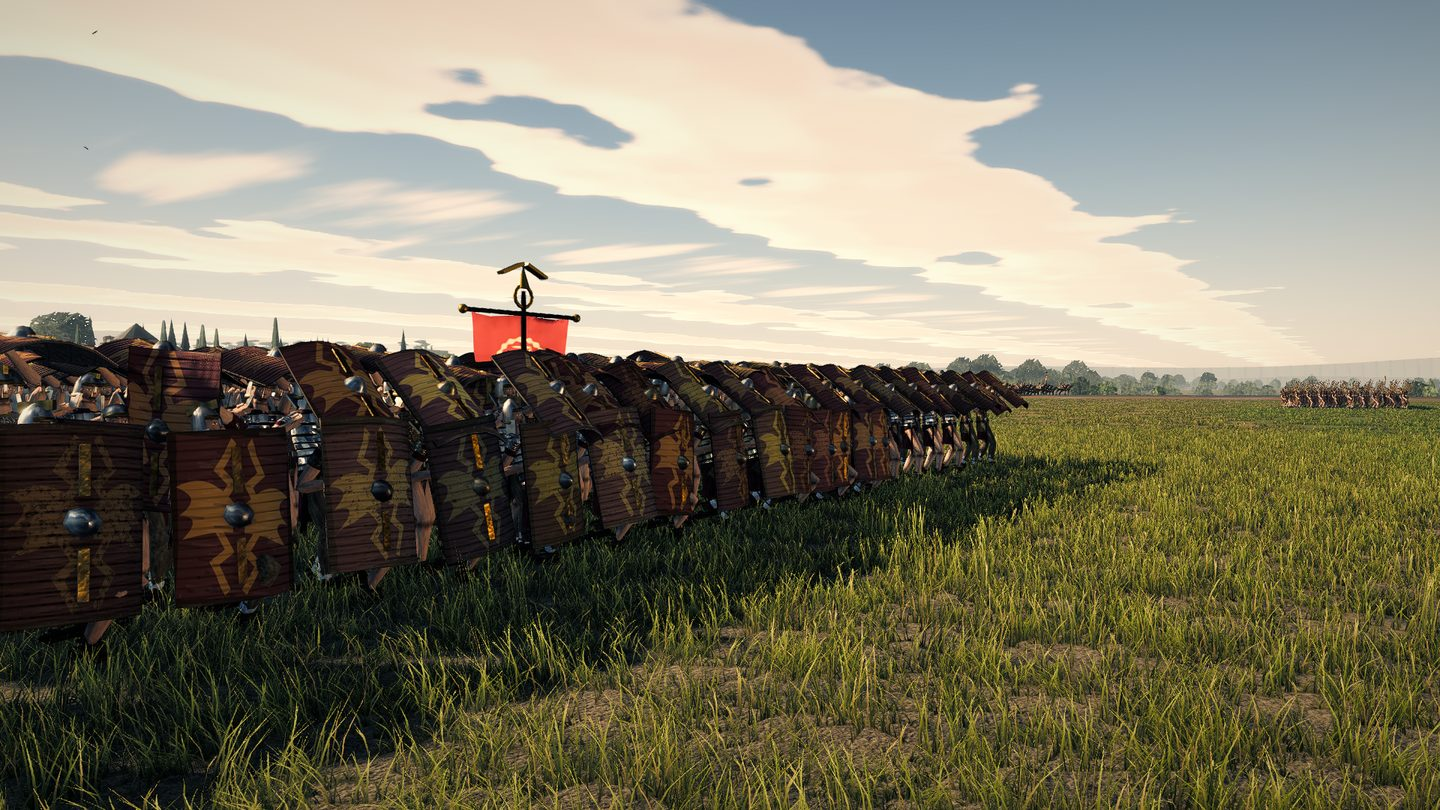
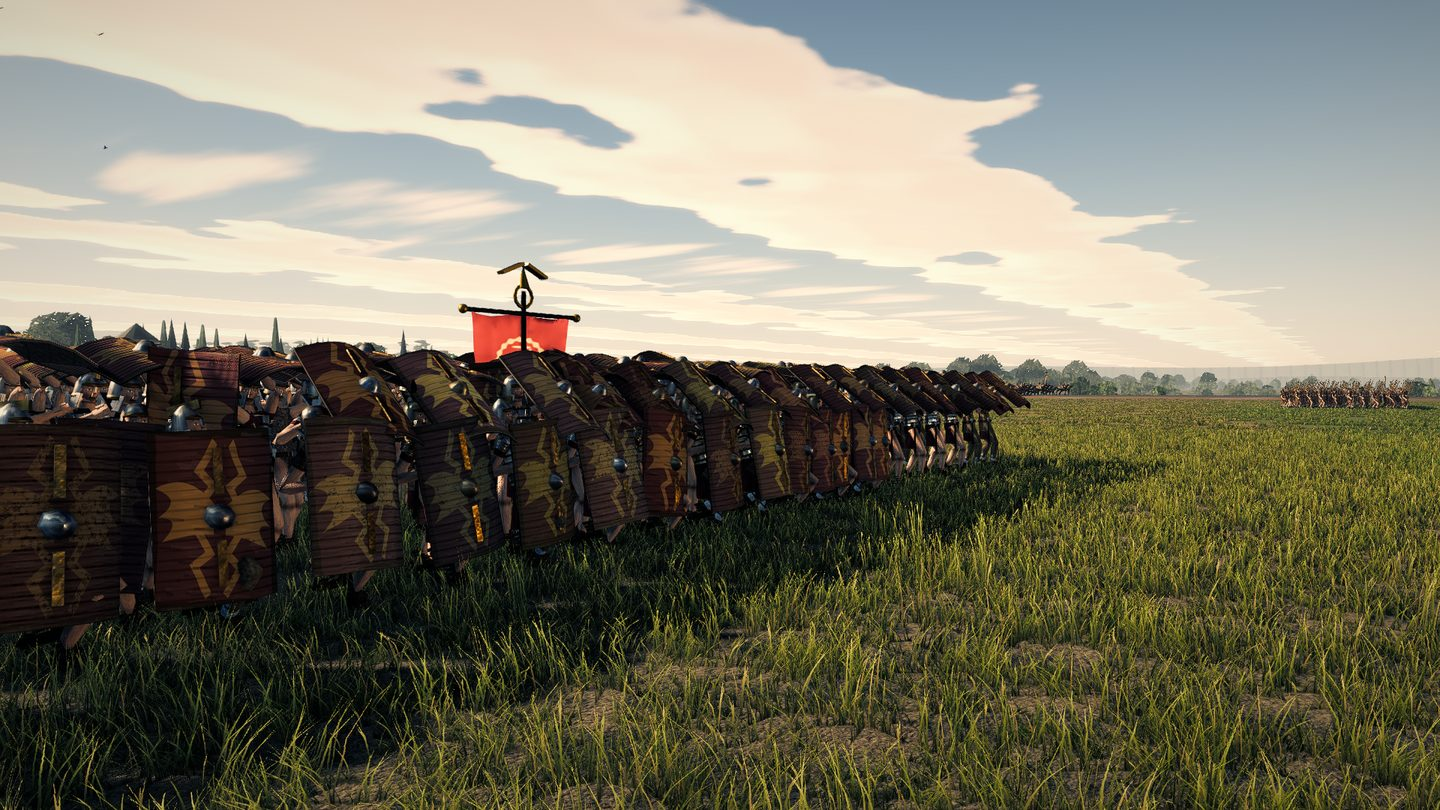
fix(render): the occlusion response was linear, and linear threw most of it away
A blind grader was handed the before and after plates and reported it could not tell them
apart. It was right about the frames and wrong about the buffer, and the fault was one line.

`max( occ, 0.34 )` — the response this pass replaced — is the *identity* for every occlusion
above 0.34: the frame darkened exactly as much as the occlusion buffer said. Its replacement,
`fill + ( 1 - fill ) * occ`, keeps both endpoints and lifts the entire middle: 0.79 against
0.70 at occ 0.7, 0.685 against 0.55 at occ 0.55. So a pass that took the buffer's 5th
percentile from 0.698 to 0.439 moved the finished frame's mean luminance by 1.3 % and the
share of pixels under 15 % luminance by 0.8 of a point.

`AO_FILL_GAMMA = 1.9` puts the curve back on top of the clamp — 0.814 against 0.850 at occ
0.85, 0.655 against 0.700 at 0.70, 0.447 against 0.440 at 0.44, 0.371 against the floor at
0.30 — while keeping everything the clamp could not do: continuous, never crushing below
`AO_FILL`, and what survives is the colour of the sky bounce rather than a neutral fraction.

Re-measured against the same nine before frames, whole-frame mean luminance: −2.7 % to
−10.8 %, against −0.1 % to −3.7 % for the linear form. Share of pixels under 15 % luminance
up by 1.5 to 3.0 points on every camera against under one point. Plates re-shot, including
the Rome street pair, where the band along the base of every frontage is now unmissable.
[…]

Changed region(s): [[0.0, 0.3704, 1.0, 1.0], [0.9062, 0.463, 0.9375, 0.4938]]

diff --git a/src/render/PostFX.ts b/src/render/PostFX.ts
@@ -98,6 +98,27 @@ const AO_CONTACT_STRENGTH = 5.0;
  * the rig's own.
  */
 const AO_FILL = 0.30;
+/**
+ * The exponent on the occlusion before the fill lifts it, and it is not a look decision — it
+ * is what makes the new curve agree with the one it replaces everywhere except at the bottom.
+ *
+ * **The linear form was shipped first and it silently threw most of the effect away.** The
+ * old response was `max( occ, 0.34 )`, which is the *identity* for every occlusion above
+ * 0.34: the frame darkened exactly as much as the buffer said. Replacing it with
+ * `fill + ( 1 - fill ) * occ` keeps the endpoints and lifts the whole middle — at occ 0.7 it
+ * returns 0.79 where the clamp returned 0.70, at occ 0.55 it returns 0.685 against 0.55. So
+ * a pass that took the buffer's 5th percentile from 0.698 to 0.439 moved the finished frame's
+ * mean luminance by 1.3 %, and a blind grader compared the before and after plates and could
+ * not tell them apart. That is the correct verdict on the frames and the wrong conclusion
+ * about the buffer, and the fault was here.
+ *
+ * 1.9 puts the curve back on top of the clamp — 0.814 against 0.850 at occ 0.85, 0.655
+ * against 0.700 at 0.70, 0.447 against 0.440 at 0.44, 0.371 against the clamp's floor at
+ * 0.30 — while keeping everything the clamp could not do: it is continuous, it never crushes
+ * below `AO_FILL`, and what survives is the colour of the sky bounce rather than a neutral
+ * fraction of the surface's own light.
+ */
+const AO_FILL_GAMMA = 1.9;
 /** 8-sample Halton(2,3) jitter, the standard TAA sequence. */
 /*
  * Sky is tested with `>= 1.0`, not with an epsilon.
@@ -1153,8 +1174,13 @@ export class PostFXSystem implements Subsystem {
          * anywhere: full occlusion leaves \`uAoFill\` of the surface's own colour, and because
          * it multiplies rather than replaces, a green tunic stays green in the crevice and a
          * red shield stays red. Nothing crosses an edge and nothing goes neutral.
+         *
+         * The exponent is what keeps this as *dark* as the clamp was over the whole middle of
+         * the range instead of quietly lifting it. See \`AO_FILL_GAMMA\`; the first build of
+         * this line was linear and a blind grader could not tell the before and after plates
+         * apart because of it.
          */
-        col *= uAoFill + ( 1.0 - uAoFill ) * occ;
+        col *= uAoFill + ( 1.0 - uAoFill ) * pow( occ, ${AO_FILL_GAMMA.toFixed(2)} );
 
         vec3 wp = tcWorldPos( vUv, d );
         vec3 v = wp - uCamPos;

diff --git a/docs/tech/CONTACT-AND-WEIGHT.md b/docs/tech/CONTACT-AND-WEIGHT.md
@@ -132,8 +132,50 @@ col *= uAoFill + ( 1.0 - uAoFill ) * occ;
 ground bounce — normalised to unit luminance and scaled by `AO_FILL = 0.30`. The rig already
 does the hard part: `fill.color` carries the sky's chromaticity stretched about its luminance
 by `FILL_CHROMA_GAIN`, which is the term that makes this project's shadows blue-grey instead
-of grey. The response is linear in `occ` with no clamp anywhere, and because it multiplies
-rather than replaces, a green tunic stays green in the crevice and a red shield stays red.
+of grey. Because it multiplies rather than replaces, a green tunic stays green in the crevice
+and a red shield stays red.
+
+### And the exponent on it is not decoration — it is the difference between the effect existing and not
+
+**This shipped linear first and it silently threw most of the effect away.** `max( occ, 0.34 )`
+is the *identity* for every occlusion above 0.34: the frame darkened exactly as much as the
+buffer said. `fill + ( 1 - fill ) * occ` keeps the two endpoints and lifts the entire middle —
+0.79 against the clamp's 0.70 at occ 0.7, 0.685 against 0.55 at occ 0.55. So a pass that took
+the buffer's 5th percentile from 0.698 to 0.439 moved the finished frame's mean luminance by
+1.3 %, and **a blind grader compared the before and after plates and reported that it could
+not tell them apart.** It was right about the frames and wrong about the buffer, and the fault
+was in this line.
+
+`AO_FILL_GAMMA = 1.9` puts the curve back on top of the clamp:
+
+| occlusion | old clamp | linear (wrong) | with the exponent |
+|---|---|---|---|
+| 0.85 | 0.850 | 0.895 | **0.814** |
+| 0.70 | 0.700 | 0.790 | **0.655** |
+| 0.55 | 0.550 | 0.685 | **0.525** |
+| 0.44 | 0.440 | 0.608 | **0.447** |
+| 0.20 | 0.340 (clamped) | 0.440 | **0.333** |
+| 0.00 | 0.340 (clamped) | 0.300 | **0.300** |
+
+Same tonal response as the build that shipped for months, plus the colour, plus no clamp
+discontinuity, plus the whole of the new occlusion signal. What it does to the nine plates,
+measured against the same nine before frames — whole-frame mean luminance, share of pixels
+under 15 % luminance, and the 5th percentile:
+
+| station | mean | dark share | 5th pct |
+|---|---|---|---|
+| `front-eye` | 154.3 → 149.0 (−3.5 %) | 5.0 → 6.5 % | 38.1 → 32.9 |
+| `roof-close` | 49.4 → 45.0 (−8.9 %) | 60.1 → 63.4 % | 5.2 → 2.9 |
+| `corner` | 123.1 → 119.5 (−2.9 %) | 22.0 → 24.9 % | 11.1 → 8.3 |
+| `flank-halt` | 120.2 → 117.0 (−2.7 %) | 27.3 → 30.4 % | 4.2 → 3.1 |
+| `tactical` | 99.0 → 90.5 (−8.6 %) | 5.1 → 6.8 % | 37.6 → 31.1 |
+| `roof-rake` | 108.0 → 96.4 (−10.8 %) | 12.4 → 15.4 % | 20.6 → 16.6 |
+| `rear` | 119.1 → 112.8 (−5.3 %) | 9.5 → 12.3 % | 21.0 → 14.6 |
+| `far120` | 129.8 → 123.5 (−4.9 %) | 0.1 → 0.2 % | 91.8 → 83.0 |
+| `flank-march` | 133.5 → 128.8 (−3.5 %) | 15.1 → 18.5 % | 11.6 → 8.4 |
+
+Against the linear form, the same table read −0.5 % to −3.7 % and the dark share moved by
+under a point on every camera. That is the whole of what the exponent bought.
 
 Splitting it this way also means the *amount* of light that survives occlusion is one number
 in `PostFX.ts` and the *colour* of it belongs to the lighting rig, so tuning either cannot
